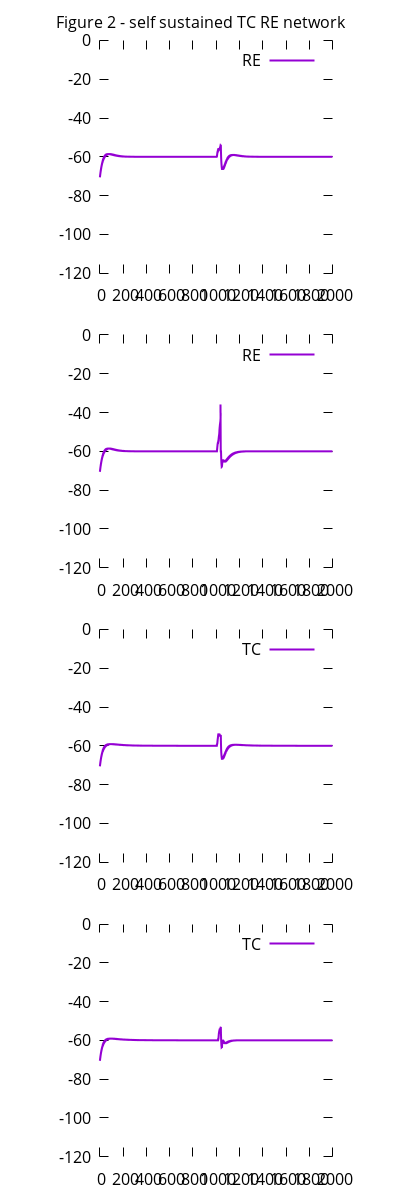
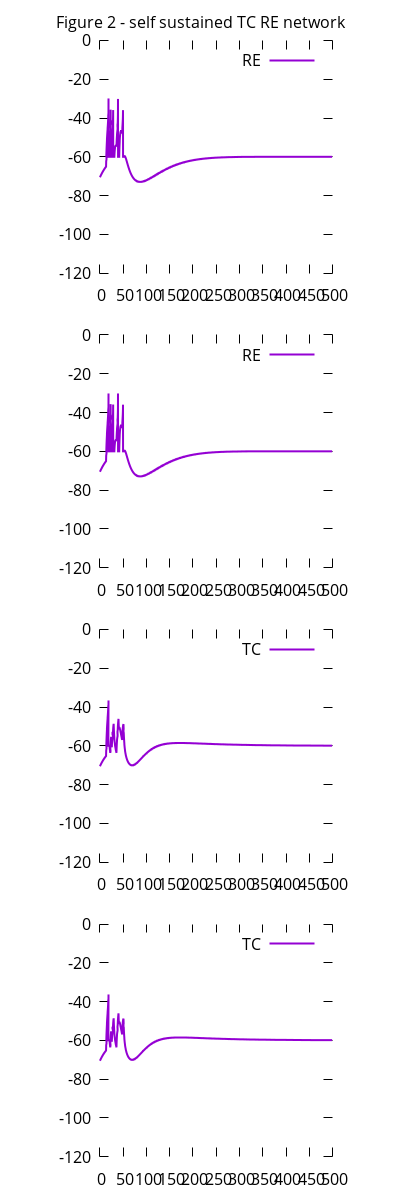
Intermediate

diff --git a/demo_nest/destexhe2009.py b/demo_nest/destexhe2009.py
@@ -73,13 +73,13 @@ class Destexhe2009:
         self.dict_RS_strong = dict(self.neuron_dict_common)
         self.dict_RS_strong.update(
             {'a': 0.001e3,  # nS
-             'b': 0.06e3  # pA
+             'b': 0.04e3  # pA
              }
         )
         self.dict_RS_weak = dict(self.neuron_dict_common)
         self.dict_RS_weak.update(
             {'a': 0.001e3,  # nS
-             'b': 0.02e3  # pA
+             'b': 0.005e3  # pA
              }
         )
         self.dict_FS = dict(self.neuron_dict_common)
@@ -141,7 +141,7 @@ class Destexhe2009:
         dc_depol_properties = [
             {'amplitude': 0.25e3,  # pA
              'start': 200.,
-             'stop': 500.
+             'stop': 600.
              }]
         nest.SetStatus(dc_stim_depol, dc_depol_properties)
 
@@ -150,7 +150,7 @@ class Destexhe2009:
         dc_hyperpol_properties = [
             {'amplitude': -0.25e3,  # pA
              'start': 200.,
-             'stop': 500.
+             'stop': 600.
              }]
         nest.SetStatus(dc_stim_hyperpol, dc_hyperpol_properties)
 
